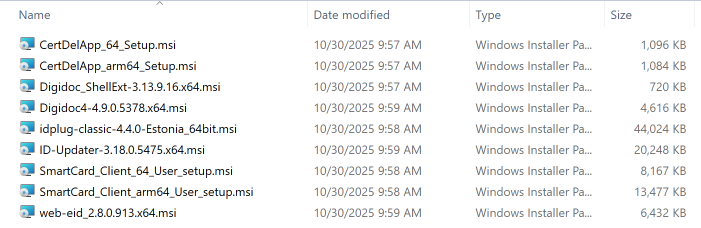
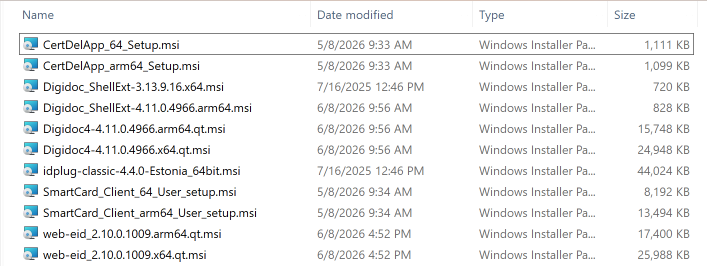
Adjust GPO distribution (#29)
IB-8863

diff --git a/admin/index.et.md b/admin/index.et.md
@@ -2,7 +2,7 @@
 
 **[In English](index.md)**
 
-**Versioon:** 26.04/1
+**Versioon:** 26.06/1
 
 **Väljaandja:** [RIA](https://www.ria.ee/)
 
@@ -30,6 +30,7 @@
 | 16.06.2025 | 25.06/1  | AWP asendatud IDPlug-iga. — Muutja: Raul Metsma
 | 31.10.2025 | 25.10/1  | Lisatud SmartCard Client. — Muutja: Raul Kaidro
 | 19.05.2026 | 26.04/1  | Avaldatud veebidokumentatsioonina. Lisatud Edge NativeMessagingAllowlist konfiguratsioon. — Muutja: Raul Metsma
+| 11.06.2026 | 26.06/1  | Uuendatud GPO-MSI levitamise juhiseid ja kuvatõmmiseid. — Muutja: Raul Metsma
 
 ---
 
@@ -79,15 +80,15 @@ Selle paigaldamisel kustutakse kaardi lugejast eemaldamisel Windowsi kasutaja se
 
 #### Digidoc_ShellExt
 
-See komponent lisab võimaluse alustada hiire paremklikiga kiiresti ja mugavalt dokumendi allkirjastamist ning krüpteerimist DigiDoc4 rakenduses.
+See komponent paigaldab klassikalise (*legacy*) Windows Exploreri kontekstimenüü laienduse, mis võimaldab alustada faili paremklõpsuga dokumendi allkirjastamist või krüpteerimist DigiDoc4 rakenduses. Windows 11-s kuvatakse selle laienduse käsud menüü *Show more options* all. Kui laiendus on Windows Explorerisse juba laaditud, võib selle paigaldamine või uuendamine nõuda Exploreri või arvuti taaskäivitamist.
 
 #### DigiDoc4
 
-DigiDoc4 on rakendus, mis võimaldab dokumente allkirjastada ja digiallkirjastatud dokumente valideerida, dokumente krüpteerida ja dekrüpteerida, saada ülevaadet ID-kaardi sertifikaatidest ning ID-kaardi PIN- ja PUK-koode hallata.
+DigiDoc4 on rakendus, mis võimaldab dokumente allkirjastada ja digiallkirjastatud dokumente valideerida, dokumente krüpteerida ja dekrüpteerida, saada ülevaadet ID-kaardi sertifikaatidest ning ID-kaardi PIN- ja PUK-koode hallata. Nii DigiDoc4 MSI kui ka Microsoft Store'i rakendus paigaldavad Windows Exploreri moodsa kontekstimenüü laienduse; MSI teeb seda AppX-põhise lahenduse kaudu.
 
 #### ID-updater
 
-ID-updater on kohustuslik komponent, mis sisaldab teiste ID-tarkvara komponentide jaoks vajalikke kolmanda osapoole teeke (Qt, OpenSSL jms). Installatsiooni käigus luuakse ka *Task Scheduleri* käsk `id updater task`, mis vaikimisi kontrollib uue tarkvara saadavust kord nädalas ja uuenduse leidmisel pakub selle kasutajale välja.
+ID-tarkvara EXE-paigaldus paigaldab alati komponendi ID-updater, mis sisaldab teiste ID-tarkvara komponentide jaoks vajalikke kolmanda osapoole teeke (Qt, OpenSSL jms). Vaikimisi loob EXE-paigaldus ka *Task Scheduleri* käsu `id updater task`, mis kontrollib kord nädalas uue tarkvara saadavust ja pakub leitud uuenduse kasutajale. Automaatkorralduse loomise saab keelata parameetriga `AutoUpdate=0`, kuid ID-updater paigaldatakse ka sel juhul. Kui ID-tarkvara komponendid paigaldatakse eraldi MSI-pakkidena, ei ole ID-updater vajalik.
 
 ![Näide: ID-updater leidis uuema versiooni tarkvarast (EST)](./img/image3.png)
 
@@ -103,11 +104,11 @@ Keskmistes ja suuremates ettevõtetes paigaldatakse tarkvara tavapäraselt mõne
 
 Lisaks interaktiivse installatsiooni puhul saadaolevatele konfiguratsioonivõimalustele on automaatsete installatsioonide puhul võimalik kasutada EXE-installatsioonidel järgmiseid võtmeid:
 
-1. `ChromeSupport=0` — ei lisata Chrome laiendust, vaikimisi 1.
-2. `EdgeSupport=0` — ei lisata Edge laiendust, vaikimisi 1.
+1. `ChromeSupport=0` — ei paigaldata Chrome laiendust, registri kirjeid ega native messaging manifesti, vaikimisi 1.
+2. `EdgeSupport=0` — ei paigaldata Edge laiendust, registri kirjeid ega native messaging manifesti, vaikimisi 1.
 3. `ForceChromeExtensionActivation2=1` — Chrome laiendus aktiveeritakse automaatselt, vaikimisi 1.
 4. `ForceEdgeExtensionActivation2=1` — Edge laiendus aktiveeritakse automaatselt, vaikimisi 1.
-5. `FirefoxSupport=0` — ei lisata Firefox laiendust, vaikimisi 1.
+5. `FirefoxSupport=0` — ei paigaldata Firefox laiendust, registri kirjeid ega native messaging manifesti, vaikimisi 1.
 6. `InstallCertSynchronizer=1` — installeeritakse vaikimisi `OTCertSynchronizer`, vaikimisi 0[^3].
 7. `MinidriverInstall=0` — ei installeerita minidraiverit, vaikimisi 1.
 8. `Qdigidoc4Install=0` — ei installeerita DigiDoc tarkvara, vaikimisi 1.
@@ -115,6 +116,8 @@ Lisaks interaktiivse installatsiooni puhul saadaolevatele konfiguratsioonivõima
 10. `AutoUpdate=0` — ei lisata *Task Scheduleri* käsku `id updater task`, vaikimisi 1.
 
 > **Märkus:** Ülaltoodud installivõtmed on tõusutundlikud.
+
+> **Märkus:** Kui `ChromeSupport`, `EdgeSupport` ja `FirefoxSupport` on kõik seatud väärtusele 0, ei paigaldata ka native messaging rakendust.
 
 Näiteks käsurida `Open-EID-<version>.exe /q AutoUpdate=0 IconsDesktop=0` installeerib ID-tarkvara vaikimisi režiimil, ei aktiveeri automaatset uuenduste otsimist ega paigalda ID-tarkvara ikoone töölauale.
 
@@ -144,15 +147,7 @@ Juhendis järgnevalt kirjeldatavad MST failid on allalaetavad asukohast <https:/
 
 Palun märgake ka seda, et uute MSI versioonidega on ka mitmeid MST faile uuendatud ja kindlasti kasutage uusi — vanad ei toimi.
 
-##### ID Updater
-
-Kohustuslik komponent, soovituslik installeerida esimesena.
-
-Kohandused:
-
-- Juhuks, kui automaatset uuenduste otsimist (ajastatud käsk `id updater task`) ei soovita aktiveerida, tuleb koos selle MSI installiga kasutada ka transformfaili `2410-no_autoupdate.mst`. Usutavasti on selle keelamine mõttekas, kuna MSI installatsioonid ei toeta sel viisil tarkvara uuenduste kontrolli.
-
-![Näide transformfaili lisamisest GPO-MSI installile](./img/image6.png)
+> **Märkus:** Võrreldes juhendi varasemate versioonidega ei ole GPO-MSI paigalduste puhul enam vaja paigaldada komponenti `ID-updater` ning komponendid ei vaja enam transformfaile, mis sunnivad tarkvara paigaldamist samasse kausta `PROGRAMMIFAILID\Open-EID`.
 
 ##### IDPlug
 
@@ -179,26 +174,19 @@ Vajalik, kui soovitakse paksu kliendiga sertifikaate hallata, allkirjastada ja k
 
 Kohandused:
 
-- GPO-MSI installatsioonide puhul on vaja kasutada transformfaili `2410-DD-Location.mst`. Sellisel juhul installeeritakse tarkvara vajalike draiveritega samasse kausta `PROGRAMMIFAILID\Open-EID`.
 - Vaikimisi MSI installatsioon töölauale vajalikke ikoone ei paigalda. Kui on soov seda teha, tuleb installatsioonile lisada ka transformfail `2410-DD-Shortcut`.
+
+DigiDoc4 MSI paigaldab Windows Exploreri moodsa kontekstimenüü laienduse AppX-põhise lahenduse kaudu.
 
 ![Näide transformfaili lisamisest GPO-MSI installile](./img/image7.png)
 
-##### Windows-ile paremklikiga allkirjastamise ja krüpteerimise lisamine
+##### Windowsile klassikalise paremkliki-laienduse lisamine
 
-Windows paremklikiga allkirjastamise ja krüpteerimise lubamine.
-
-Kohandused:
-
-- GPO-MSI installatsioonide puhul on vaja kasutada transformfaili `2410-DD-Shell-Location.mst`. Sellisel juhul installeeritakse tarkvara vajalike draiveritega samasse kausta `PROGRAMMIFAILID\Open-EID`.
-
-![Näide transformfaili lisamisest GPO-MSI installile](./img/image8.png)
+`Digidoc_ShellExt` MSI paigaldab Windows Exploreri klassikalise kontekstimenüü laienduse. Windows 11-s kuvatakse selle laienduse käsud menüü *Show more options* all. Kasuta seda ainult siis, kui moodsa, DigiDoc4 MSI-ga kaasneva laienduse asemel on vaja klassikalist laiendust. Kui klassikaline laiendus on Explorerisse juba laaditud, võib selle paigaldamine või uuendamine nõuda Exploreri või arvuti taaskäivitamist.
 
 ##### Web eID
 
-Brauserite laiendused ja omarakendus (*native app*). GPO-MSI installatsioonide puhul on vaja kasutada transformfaili `2410-Web-Location.mst`. Sellisel juhul installeeritakse tarkvara vajalike draiveritega samasse kausta `PROGRAMMIFAILID\Open-EID`.
-
-![Näide transformfaili lisamisest GPO-MSI installile](./img/image9.png)
+Brauserite laiendused ja omarakendus (*native app*).
 
 MSI kohandatud pakkide loend näeb GPMC halduskonsoolis välja nii:
 
@@ -208,7 +196,7 @@ GPO-MSI installatsioonide puhul ilmuvad kõik installeeritud programmid ka progr
 
 ![MSI installatsioonid programmide loendis](./img/image11.png)
 
-> **Märkus:** MSI-de installatsioonide järjestus ei ole oluline, ent kõik sõltuvad MSI-st „OpenEID Updater". Samuti on oluline minidraiver, millest samuti teised komponendid sõltuvad.
+> **Märkus:** MSI-de installatsioonide järjestus ei ole oluline, kuid vajalik minidraiver peab olema paigaldatud, sest teised komponendid sõltuvad sellest.
 
 > **Märkus:** MST failid on allalaetavad asukohast <https://www.id.ee/artikkel/open-eid-administreerimise-ja-paigaldamise-juhised-administraatoritele/>.
 

diff --git a/admin/index.md b/admin/index.md
@@ -2,7 +2,7 @@
 
 **[Eesti keeles (In Estonian)](index.et.md)**
 
-**Version:** 26.04/1
+**Version:** 26.06/1
 
 **Published by:** [RIA](https://www.ria.ee/)
 
@@ -30,6 +30,7 @@
 | 16/06/2025 | 25.06/1  | Replaced AWP with IDPlug. — Changed by: Raul Metsma
 | 31/10/2025 | 25.10/1  | Added SmartCard Client. — Changed by: Raul Kaidro
 | 19/05/2026 | 26.04/1  | Published as online documentation. Added Edge NativeMessagingAllowlist configuration. — Changed by: Raul Metsma
+| 11/06/2026 | 26.06/1  | Updated GPO-MSI distribution guidance and screenshots. — Changed by: Raul Metsma
 
 ---
 
@@ -79,15 +80,15 @@ When it is installed and the smart card is removed from the card reader, all ID-
 
 #### Digidoc_ShellExt
 
-This component allows starting signing and encryption in DigiDoc4 by right-clicking on the file.
+This component installs the legacy Windows Explorer context-menu extension, which allows signing or encryption to be started in DigiDoc4 by right-clicking a file. On Windows 11, commands provided by this extension appear under *Show more options*. If the extension has already been loaded into Windows Explorer, installing or updating it may require restarting Explorer or the computer.
 
 #### DigiDoc4
 
-DigiDoc4 is an application that enables the signing, validation, encryption, and decryption of documents as well as managing the PINs and PUKs of ID-cards.
+DigiDoc4 is an application that enables the signing, validation, encryption, and decryption of documents as well as managing the PINs and PUKs of ID-cards. Both the DigiDoc4 MSI and the Microsoft Store app install the modern Windows Explorer context-menu extension; the MSI does so through an AppX-based solution.
 
 #### ID-updater
 
-ID-updater is a mandatory component that bundles shared third-party libraries (Qt, OpenSSL, etc.) required by other ID-software components. During installation, the task scheduler task `id updater task` is created, which checks the availability of new software once per week and suggests any identified updates to the user.
+The ID-software EXE installer always installs ID-updater, which bundles shared third-party libraries (Qt, OpenSSL, etc.) required by other ID-software components. By default, the EXE installer also creates the scheduled task `id updater task`, which checks for new software once per week and offers any available update to the user. Creating the scheduled task can be disabled with `AutoUpdate=0`, but ID-updater is still installed. ID-updater is not required when the ID-software components are installed as separate MSI packages.
 
 ![Example: ID-updater found a newer version of the software (EST)](./img/image3.png)
 
@@ -103,11 +104,11 @@ In large and medium enterprises, the ID-software is usually installed and contro
 
 In addition to the configuration options available in the GUI, the following command-line parameters can be used for unattended installations:
 
-1. `ChromeSupport=0` — the Chrome extension is not added, 1 by default.
-2. `EdgeSupport=0` — the Edge extension is not added, 1 by default.
+1. `ChromeSupport=0` — the Chrome extension, registry entries, and native messaging manifest are not installed, 1 by default.
+2. `EdgeSupport=0` — the Edge extension, registry entries, and native messaging manifest are not installed, 1 by default.
 3. `ForceChromeExtensionActivation2=1` — the Chrome extension is activated automatically, 1 by default.
 4. `ForceEdgeExtensionActivation2=1` — the Edge extension is activated automatically, 1 by default.
-5. `FirefoxSupport=0` — the Firefox extension is not added, 1 by default.
+5. `FirefoxSupport=0` — the Firefox extension, registry entries, and native messaging manifest are not installed, 1 by default.
 6. `InstallCertSynchronizer=1` — installs the component `OTCertSynchronizer`, 0 by default[^3].
 7. `MinidriverInstall=0` — the minidriver is not installed, 1 by default.
 8. `Qdigidoc4Install=0` — the DigiDoc software is not installed, 1 by default.
@@ -115,6 +116,8 @@ In addition to the configuration options available in the GUI, the following com
 10. `AutoUpdate=0` — `id updater task` is not added to the task scheduler, 1 by default.
 
 > **Note:** The installation keys shown above are case sensitive.
+
+> **Note:** If `ChromeSupport`, `EdgeSupport`, and `FirefoxSupport` are all set to 0, the native messaging application is not installed either.
 
 For example, the command line `Open-EID-<version>.exe /quiet AutoUpdate=0 IconsDesktop=0` installs the ID-software in unattended mode, does not activate automatic updates, and does not add the ID-software icons to the desktop.
 
@@ -146,15 +149,7 @@ The MST files described below in the manual can be downloaded from the location 
 
 Below is a brief overview about how to configure GPO-MSI installations.
 
-##### ID-updater
-
-ID-updater is a mandatory component. It is recommended to install it first.
-
-Options:
-
-- If you do not want to activate the automatic software update functionality (deferred `id updater task`), use the transform file `2410-no_autoupdate.mst` with this MSI installation. And it probably makes sense to disable it, since MSI installations don't support software update checking in this way.
-
-![Sample about adding a transform file to the MSI installation](./img/image6.png)
+> **Note:** Compared to earlier versions of this guide, `ID-updater` no longer needs to be installed for GPO-MSI deployments, and components no longer need transform files that force installation into the same `PROGRAM FILES\Open-EID` folder.
 
 ##### IDPlug
 
@@ -181,26 +176,19 @@ DigiDoc4 is a necessary component if you want to sign and encrypt documents as w
 
 Options:
 
-- For GPO-MSI installations, it is necessary to use the transform file `2410-DD-Location.mst`. In this case, the software is installed in the same folder `PROGRAM FILES\Open-EID` as the necessary drivers.
 - The default MSI installation does not install the necessary icons on the desktop. However, if desktop icons are required, the transform file `2410-DD-Shortcut` must also be added to the installation.
+
+The DigiDoc4 MSI installs the modern Windows Explorer context-menu extension through an AppX-based solution.
 
 ![Adding transform files for MSI installation](./img/image7.png)
 
-##### Adding right-click signing and encryption to Windows
+##### Adding the legacy right-click extension to Windows
 
-Enables right-click signing and encryption of files in Windows Explorer.
-
-Options:
-
-- For GPO-MSI installations, it is necessary to use the transform file `2410-DD-Shell-Location.mst`. In this case, the software is installed in the same folder `PROGRAM FILES\Open-EID` as the necessary drivers.
-
-![Sample of adding a transform file to a GPO-MSI installation](./img/image8.png)
+The `Digidoc_ShellExt` MSI installs the legacy Windows Explorer context-menu extension. On Windows 11, commands provided by this extension appear under *Show more options*. Use it only when the legacy extension is required instead of the modern extension included with the DigiDoc4 MSI. If the legacy extension has already been loaded into Explorer, installing or updating it may require restarting Explorer or the computer.
 
 ##### Web eID
 
-Browser extensions and native app. For GPO-MSI installations, it is necessary to use the transform file `2410-Web-Location.mst`. In this case, the software is installed in the same folder `PROGRAM FILES\Open-EID` as the necessary drivers.
-
-![Sample of adding a transform file to a GPO-MSI installation](./img/image9.png)
+Browser extensions and native app.
 
 The list of MSI custom packages in the GPMC management console looks like this:
 
@@ -210,7 +198,7 @@ For GPO-MSI installations, all installed programs also appear in the software li
 
 ![MSI installations in the program list of the Control Panel](./img/image11.png)
 
-> **Note:** The order of MSI installation components is not important, but all components depend on the MSI `Open-EID updater`. The minidriver is also important, as other components depend on it.
+> **Note:** The order of MSI installation components is not important, but the required minidriver must be installed because other components depend on it.
 
 > **Note:** MST files can be downloaded from <https://www.id.ee/en/article/administrators-guide-for-administration-and-installation-of-open-eid/>.
 

diff --git a/README.md b/README.md
@@ -24,14 +24,14 @@ Uses https://jekyllrb.com and https://just-the-docs.com styles for generating do
 
 1.  Update source files in domain/
 
-2.  Build PDF document
+2.  Build the PDF document from the repository root
 
 ```bash
 # Export English version
-pandoc domain/index.md -L kramdown-toc.lua -o eID_Auth_Guide_EN.pdf
+pandoc domain/index.md --resource-path=domain -L kramdown-toc.lua -o eID_Auth_Guide_EN.pdf
 
 # Export Estonian version
-pandoc domain/index.et.md -L kramdown-toc.lua -o eID_Auth_Guide_ET.pdf
+pandoc domain/index.et.md --resource-path=domain -L kramdown-toc.lua -o eID_Auth_Guide_ET.pdf
 ```
 
 ## Editing and building "Apache2 SSL Configuration"
@@ -40,14 +40,14 @@ Uses https://jekyllrb.com and https://just-the-docs.com styles for generating do
 
 1.  Update source files in apache/
 
-2.  Build PDF document
+2.  Build the PDF document from the repository root
 
 ```bash
 # Export English version
-pandoc apache/index.md -L kramdown-toc.lua -o apache_SSL_EN.pdf
+pandoc apache/index.md --resource-path=apache -L kramdown-toc.lua -o apache_SSL_EN.pdf
 
 # Export Estonian version
-pandoc apache/index.et.md -L kramdown-toc.lua -o apache_SSL_ET.pdf
+pandoc apache/index.et.md --resource-path=apache -L kramdown-toc.lua -o apache_SSL_ET.pdf
 ```
 
 ## Editing and building "Nginx SSL Configuration"
@@ -56,14 +56,14 @@ Uses https://jekyllrb.com and https://just-the-docs.com styles for generating do
 
 1.  Update source files in nginx/
 
-2.  Build PDF document
+2.  Build the PDF document from the repository root
 
 ```bash
 # Export English version
-pandoc nginx/index.md -L kramdown-toc.lua -o nginx_SSL_EN.pdf
+pandoc nginx/index.md --resource-path=nginx -L kramdown-toc.lua -o nginx_SSL_EN.pdf
 
 # Export Estonian version
-pandoc nginx/index.et.md -L kramdown-toc.lua -o nginx_SSL_ET.pdf
+pandoc nginx/index.et.md --resource-path=nginx -L kramdown-toc.lua -o nginx_SSL_ET.pdf
 ```
 
 ## Editing and building "IIS SSL Configuration"
@@ -72,14 +72,14 @@ Uses https://jekyllrb.com and https://just-the-docs.com styles for generating do
 
 1.  Update source files in iis/
 
-2.  Build PDF document
+2.  Build the PDF document from the repository root
 
 ```bash
 # Export English version
-pandoc iis/index.md -L kramdown-toc.lua -o iis_SSL_EN.pdf
+pandoc iis/index.md --resource-path=iis -L kramdown-toc.lua -o iis_SSL_EN.pdf
 
 # Export Estonian version
-pandoc iis/index.et.md -L kramdown-toc.lua -o iis_SSL_ET.pdf
+pandoc iis/index.et.md --resource-path=iis -L kramdown-toc.lua -o iis_SSL_ET.pdf
 ```
 
 ## Editing and building "ID-software Administrator View"
@@ -88,14 +88,14 @@ Uses https://jekyllrb.com and https://just-the-docs.com styles for generating do
 
 1.  Update source files in admin/
 
-2.  Build PDF document
+2.  Build the PDF document from the repository root
 
 ```bash
 # Export English version
-pandoc admin/index.md -L kramdown-toc.lua -o admin_view_EN.pdf
+pandoc admin/index.md --resource-path=admin -L kramdown-toc.lua -o admin_view_EN.pdf
 
 # Export Estonian version
-pandoc admin/index.et.md -L kramdown-toc.lua -o admin_view_ET.pdf
+pandoc admin/index.et.md --resource-path=admin -L kramdown-toc.lua -o admin_view_ET.pdf
 ```
 
 ## Support
